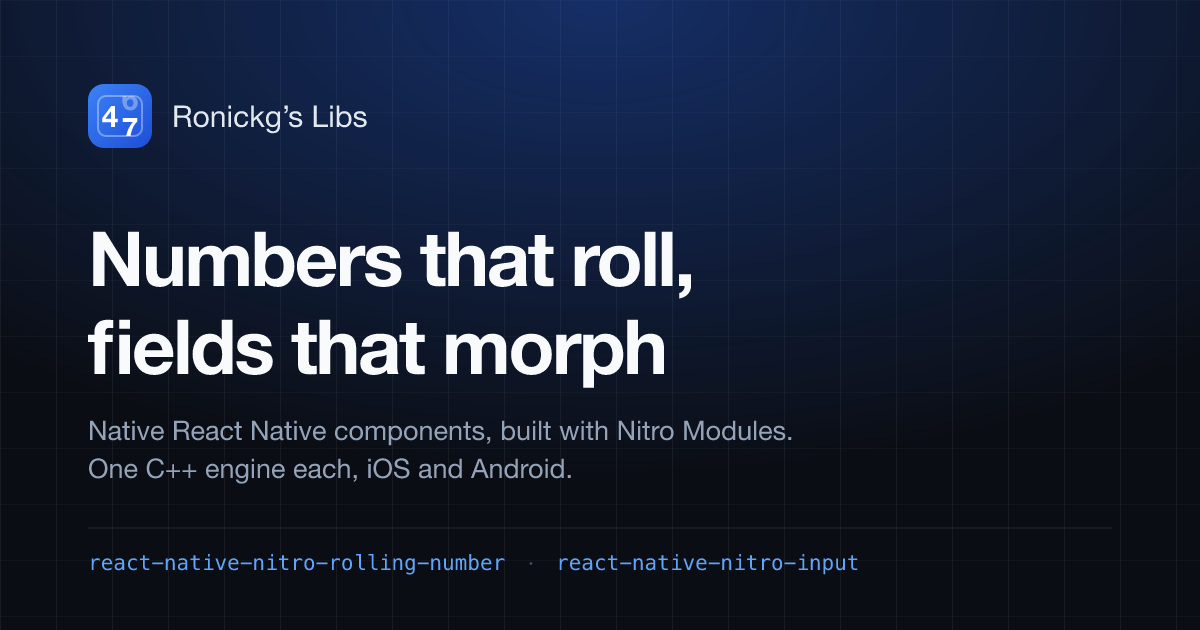
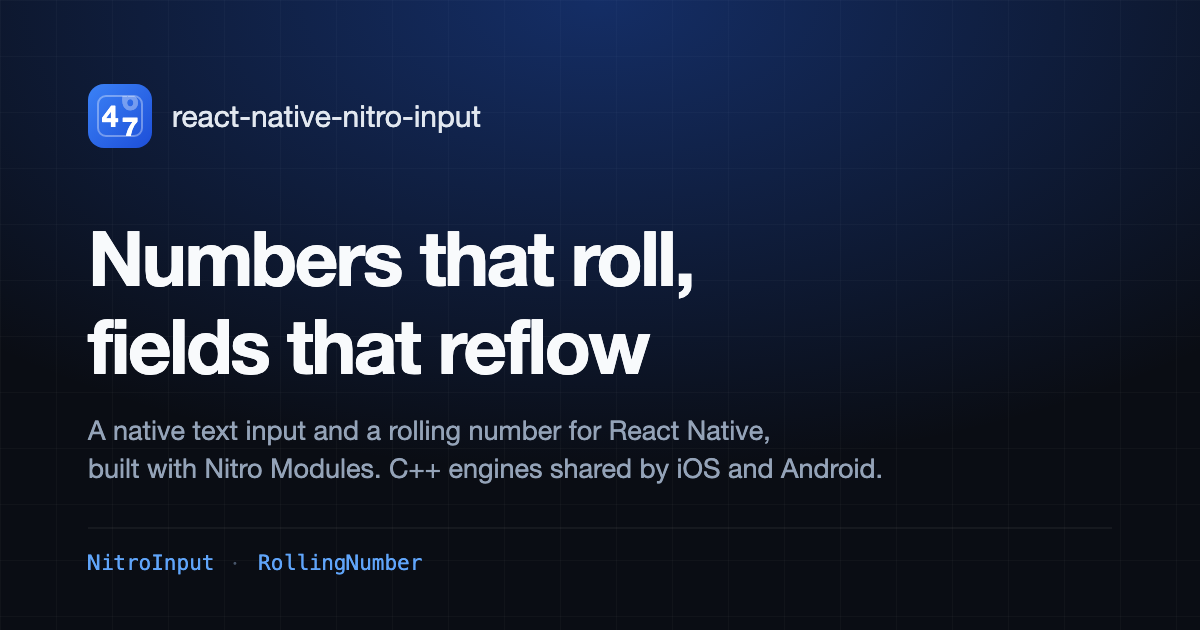
README and social card: one package, one name
The README's title still read "Nitro Rolling Number & Nitro Input", its
sections "Rolling number" and "Text input", and the benchmark rows "Nitro
Rolling Number". They are react-native-nitro-input, RollingNumber and
NitroInput now. The social card (the image a shared docs link shows) still
said "Ronickg's Libs" and "fields that morph"; it names the package and
the two components, and the PNG is re-rendered from the SVG at 1200×630.

diff --git a/README.md b/README.md
@@ -1,7 +1,7 @@
-<h1 align="center">Nitro Rolling Number &amp; Nitro Input</h1>
+<h1 align="center">react-native-nitro-input</h1>
 
 <p align="center">
-  One package, <a href="https://www.npmjs.com/package/react-native-nitro-input"><code>react-native-nitro-input</code></a>, two native components for React Native, built with <a href="https://nitro.margelo.com">Nitro Modules</a>:<br/>
+  Two native components for React Native in one package, built with <a href="https://nitro.margelo.com">Nitro Modules</a>:<br/>
   a <b>rolling number</b> whose digits are wheels, and a <b>text input</b> that formats amounts and applies masks natively, with a reflow you can turn on.<br/>
   One C++ engine each, iOS and Android, the new architecture.
 </p>
@@ -18,7 +18,7 @@
       <img src="docs/static/img/readme/market.webp" width="400" alt="A live market screen with about thirty rolling numbers, on an iPhone and a Pixel" />
       <p>An odometer for React Native. Every digit is a wheel driven by one C++ engine, with currency layouts, shrink-to-fit, a loading shimmer and the jackpot reveal.</p>
       <p>
-        <a href="#rolling-number">Below</a> ·
+        <a href="#rollingnumber">Below</a> ·
         <a href="https://ronickg.github.io/react-native-nitro-input/docs/rolling-number">Guide</a> ·
         <a href="https://ronickg.github.io/react-native-nitro-input/docs/loading-and-reveal#jackpot-reveal">Jackpot reveal</a> ·
         <a href="https://ronickg.github.io/react-native-nitro-input/docs/benchmarks">Benchmarks</a> ·
@@ -30,7 +30,7 @@
       <img src="docs/static/img/readme/input.webp" width="400" alt="An amount being typed into a native field, formatted as it is typed and reflowing into place, on an iPhone and a Pixel" />
       <p>A native text input. The system keyboard and accessibility stay; amounts are formatted and masks applied in C++ before a frame is drawn, the floating label is native, and the reflow is there when you turn it on.</p>
       <p>
-        <a href="#text-input">Below</a> ·
+        <a href="#nitroinput">Below</a> ·
         <a href="https://ronickg.github.io/react-native-nitro-input/docs/nitro-input">Guide</a> ·
         <a href="https://ronickg.github.io/react-native-nitro-input/docs/nitro-input#amounts">Amount field</a> ·
         <a href="https://ronickg.github.io/react-native-nitro-input/docs/nitro-input#masks">Masks</a> ·
@@ -54,7 +54,7 @@ cd ios && pod install
 
 `react-native-nitro-rolling-number` was the rolling number's own package until 0.1.0; `RollingNumber` now comes from `react-native-nitro-input`, with the same props.
 
-## Rolling number
+## RollingNumber
 
 - **Native on both platforms.** A `value` change is one JSI call; the roll runs on a `CADisplayLink` (Core Animation layers) or a `Choreographer` (Canvas). A busy JS thread never delays an animation in flight.
 - **Every digit is a wheel.** Shortest path in the direction of the change, columns sliding in and out as the number grows, easing, spring or a cascading stagger.
@@ -118,8 +118,8 @@ Release builds on real phones, 24 copies fed a new value on every frame, frames 
 
 | | iPhone 13 Pro Max (120 Hz) | iPhone 11 Pro (60 Hz) | Galaxy A22 (90 Hz, low-end) |
 | --- | --- | --- | --- |
-| **Nitro Rolling Number** (`value` prop) | 120 fps (0 dropped) | 59.9 fps (0 dropped) | 90.4 fps (0 dropped) |
-| **Nitro Rolling Number** (`jumpTo`) | 120 fps (0 dropped) | 59.9 fps (0 dropped) | 89.8 fps (3 dropped) |
+| **RollingNumber** (`value` prop) | 120 fps (0 dropped) | 59.9 fps (0 dropped) | 90.4 fps (0 dropped) |
+| **RollingNumber** (`jumpTo`) | 120 fps (0 dropped) | 59.9 fps (0 dropped) | 89.8 fps (3 dropped) |
 | react-native-number-animation (native) | 117 fps (13 dropped) | 59.1 fps (4 dropped) | 56.2 fps (170 dropped) |
 | react-native-animated-rolling-numbers | 117 fps (17 dropped) | 58.7 fps (5 dropped) | 18.8 fps (370 dropped) |
 | NumberFlow (View) | 76.1 fps (222 dropped) | 49.1 fps (56 dropped) | 24.9 fps (352 dropped) |
@@ -130,7 +130,7 @@ Release builds on real phones, 24 copies fed a new value on every frame, frames 
 
 Method, the JS-thread and CPU columns, the ten-a-second and one-copy cases, a scrolling list, mount cost and the Instruments cross-check: [BENCHMARKS.md](BENCHMARKS.md); the same tables as charts you can hover and switch between metrics: [the benchmark pages of the docs](https://ronickg.github.io/react-native-nitro-input/docs/benchmarks).
 
-## Text input
+## NitroInput
 
 `NitroInput` is a system text field (`UITextField` / `EditText`) that owns the keyboard, editing, selection, paste and accessibility, with native formatting, native masking and an outlined or filled frame with a floating label on top of it. `transition="reflow"` animates the characters as they change, for the one case where that is the point: an amount.
 
